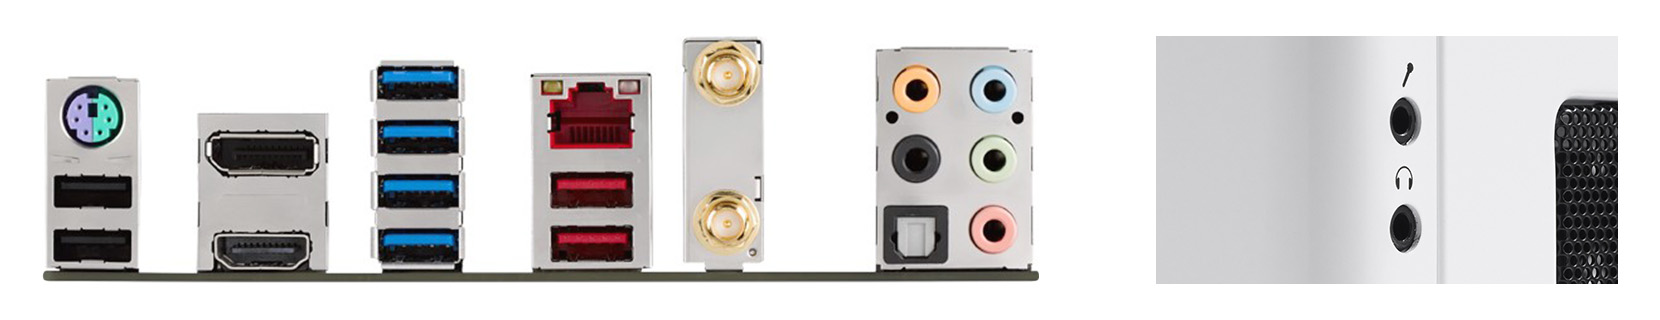
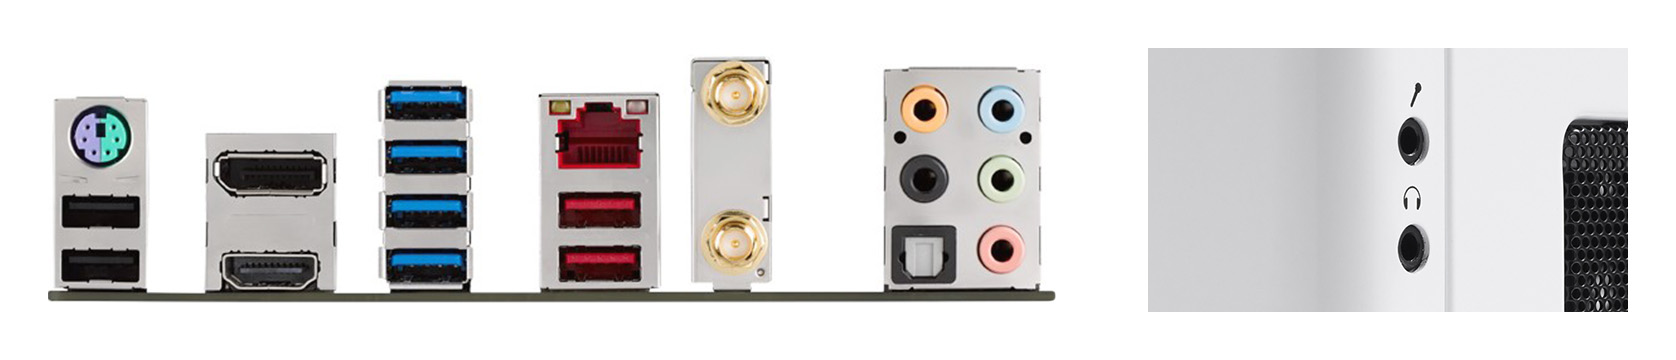
Monterey → Ventura

diff --git a/README.md b/README.md
@@ -8,30 +8,32 @@ I'm publishing releases here to reference my own configurations and to share my 
 ![About this Mac](opencore_asus_z170i_pro_gaming_about_this_mac.jpg)
 
 ## Overview
+- This build runs macOS Ventura natively, without OpenCore Legacy Patcher, using SMBIOS `iMac18,3`. macOS Ventura dropped support for Skylake graphics and for iMac17,1, so the SMBIOS is set to the closest supported Kaby Lake iMac (Polaris dGPU + headless iGPU). Ventura is also the last macOS version where the Broadcom BCM94360NG wireless card is supported natively.
 - This build runs on a dedicated GPU, alongside the integrated GPU, which is only used for computing tasks and does not drive a display. If you are not using a dGPU you need to follow the [GPU patching](https://dortania.github.io/OpenCore-Post-Install/gpu-patching/) guide.
-- No beauty treatments were done in this build, that means no OpenCore GUI and no boot-chime. I want to keep everything simple and minimal. You can enable all of this by following the [beauty treatment](https://dortania.github.io/OpenCore-Post-Install/cosmetic/gui.html) guide.
+- The Skylake HD Graphics 530 is spoofed as a Kaby Lake HD Graphics 630 for macOS Ventura (`device-id` `1B590000`, headless `AAPL,ig-platform-id` `03001259`). A headless iGPU does not show up in System Information or in Activity Monitor's GPU History, which is expected.
+- No beauty treatments were done in this build, that means no OpenCore GUI and no boot-chime. I want to keep everything lean, simple and minimal. You can enable all of this by following the [beauty treatment](https://dortania.github.io/OpenCore-Post-Install/cosmetic/gui.html) guide.
 - Wireless card for bluetooth and wifi (Qualcomm Atheros QCNFA364A) is replaced. I'm using the Broadcom BCM94360NG card instead. If you wish to swap the wireless card, remember to read [wireless buyers guide](https://dortania.github.io/Wireless-Buyers-Guide/) first.
 
 ## Hardware
 Remember to read the [anti-hackintosh buyers guide](https://dortania.github.io/Anti-Hackintosh-Buyers-Guide/) if you're planning on buying components for a new build.
 
-| Item        | Brand          | Model                                                     | Driver                                                                                                    | Comment         |
-| ----------- | -------------- | --------------------------------------------------------- | --------------------------------------------------------------------------------------------------------- | --------------- |
-| Motherboard | Asus           | Z170i Pro Gaming                                          | [OpenCorePkg](https://github.com/acidanthera/OpenCorePkg) <br>[Lilu](https://github.com/acidanthera/Lilu) |                 |
-| CPU         | Intel          | Core i5 6600K 3,5GHz                                      | [VirtualSMC](https://github.com/acidanthera/VirtualSMC)                                                   | _Skylake_       |
-| RAM         | Corsair        | Vengeance LPX DDR4 3000MHz 8GB <sup>x2</sup>              | native                                                                                                    |                 |
-| iGPU        | Intel          | HD Graphics 530                                           | [WhateverGreen](https://github.com/acidanthera/WhateverGreen)                                             | _Headless mode_ |
-| dGPU        | Gigabyte       | RX 580 GAMING 8GB                                         | [WhateverGreen](https://github.com/acidanthera/WhateverGreen)                                             |                 |
-| SSD         | Sandisk        | WD_BLACK SN850X NVMe M.2 <sup>x1</sup>                    | native                                                                                                    |                 |
-| HDD         | WD             | Red 3TB 3.5" <sup>x1</sup> <br>Red 4TB 3.5" <sup>x3</sup> | native                                                                                                    |                 |
-| Wifi        | Broadcom       | BCM94360NG <sup>802.11ac</sup>                            | native                                                                                                    | _Replaced_      |
-| Bluetooth   | Broadcom       | BCM94360NG <sup>v4.0</sup>                                | native                                                                                                    | _Replaced_      |
-| Ethernet    | Intel          | I219-V                                                    | [IntelMausi](https://github.com/acidanthera/IntelMausi)                                                   |                 |
-| Audio       | Realtek        | ALC1150                                                   | [AppleALC](https://github.com/acidanthera/AppleALC)                                                       | _Layout-ID 99_  |
-| PSU         | Corsair        | SF750 750W                                                |                                                                                                           |                 |
-| Case        | Fractal Design | Node 304                                                  |                                                                                                           |                 |
-| CPU cooler  | Cryorig        | H7                                                        |                                                                                                           |                 |
-| Display     | Sony <br>Dell  | XR50X93J 50" <br>P2222H 22"                               |                                                                                                           |                 |
+| Item        | Brand          | Model                                                     | Driver                                                                                                    | Comment                                |
+| ----------- | -------------- | --------------------------------------------------------- | --------------------------------------------------------------------------------------------------------- | -------------------------------------- |
+| Motherboard | Asus           | Z170i Pro Gaming                                          | [OpenCorePkg](https://github.com/acidanthera/OpenCorePkg) <br>[Lilu](https://github.com/acidanthera/Lilu) |                                        |
+| CPU         | Intel          | Core i5 6600K 3,5GHz                                      | [VirtualSMC](https://github.com/acidanthera/VirtualSMC)                                                   | _Skylake_                              |
+| RAM         | Corsair        | Vengeance LPX DDR4 3000MHz 8GB <sup>x2</sup>              | native                                                                                                    |                                        |
+| iGPU        | Intel          | HD Graphics 530                                           | [WhateverGreen](https://github.com/acidanthera/WhateverGreen)                                             | _Headless mode, <br>spoofed as HD 630_ |
+| dGPU        | Gigabyte       | RX 580 GAMING 8GB                                         | [WhateverGreen](https://github.com/acidanthera/WhateverGreen)                                             |                                        |
+| SSD         | Sandisk        | WD_BLACK SN850X NVMe M.2 <sup>x1</sup>                    | native                                                                                                    |                                        |
+| HDD         | WD             | Red 3TB 3.5" <sup>x1</sup> <br>Red 4TB 3.5" <sup>x3</sup> | native                                                                                                    |                                        |
+| Wifi        | Broadcom       | BCM94360NG <sup>802.11ac</sup>                            | native                                                                                                    | _Replaced_                             |
+| Bluetooth   | Broadcom       | BCM94360NG <sup>v4.0</sup>                                | native                                                                                                    | _Replaced_                             |
+| Ethernet    | Intel          | I219-V                                                    | [IntelMausi](https://github.com/acidanthera/IntelMausi)                                                   |                                        |
+| Audio       | Realtek        | ALC1150                                                   | [AppleALC](https://github.com/acidanthera/AppleALC)                                                       | _Layout-ID 99_                         |
+| PSU         | Corsair        | SF750 750W                                                |                                                                                                           |                                        |
+| Case        | Fractal Design | Node 304                                                  |                                                                                                           |                                        |
+| CPU cooler  | Cryorig        | H7                                                        |                                                                                                           |                                        |
+| Display     | Sony <br>Dell  | XR50X93J 50" <br>P2222H 22"                               |                                                                                                           |                                        |
 
 ## BIOS setup
 Begin by loading optimized default options, then make sure settings are as below.
